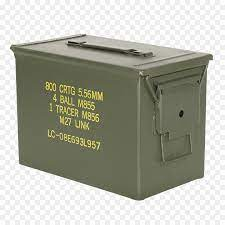
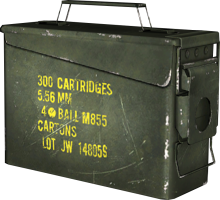
Changed images for transparent background

diff --git a/game.js b/game.js
@@ -169,7 +169,7 @@ function startGame(){
     createBulletsVar = setInterval(createBullets, 1000 / 10);
     createInvertedBulletsVar = setInterval(createInvertedBullets, 1000 / 10);
     updateUfoSpawnVar = setInterval(updateUfoSpawn, 1000 / 25);
-    createAmmoRefillVar = setInterval(createAmmoRefill, 3000)
+    createAmmoRefillVar = setInterval(createAmmoRefill, 15000)
 
     draw();
 }
@@ -463,7 +463,7 @@ function update(){
     }
 
     else if(KEY_LEFT){
-        rocket.x -= 7; 
+        rocket.x -= 4; 
     }
 
     bullets.forEach(function(bullet){
@@ -563,10 +563,10 @@ function loadImages(){
     rocket.img = new Image();
     rocket.img.src = rocket.src;
 
-    ufo.img = new Image();
+    ufo.img = 'Images/ufo.png';
     ufo.img.src = ufo.src;
 
-    AmmoRefill.img = new Image();
+    AmmoRefill.img = 'Images/ammoRefill.png';
     AmmoRefill.img.src = AmmoRefill.src;
 }
 
